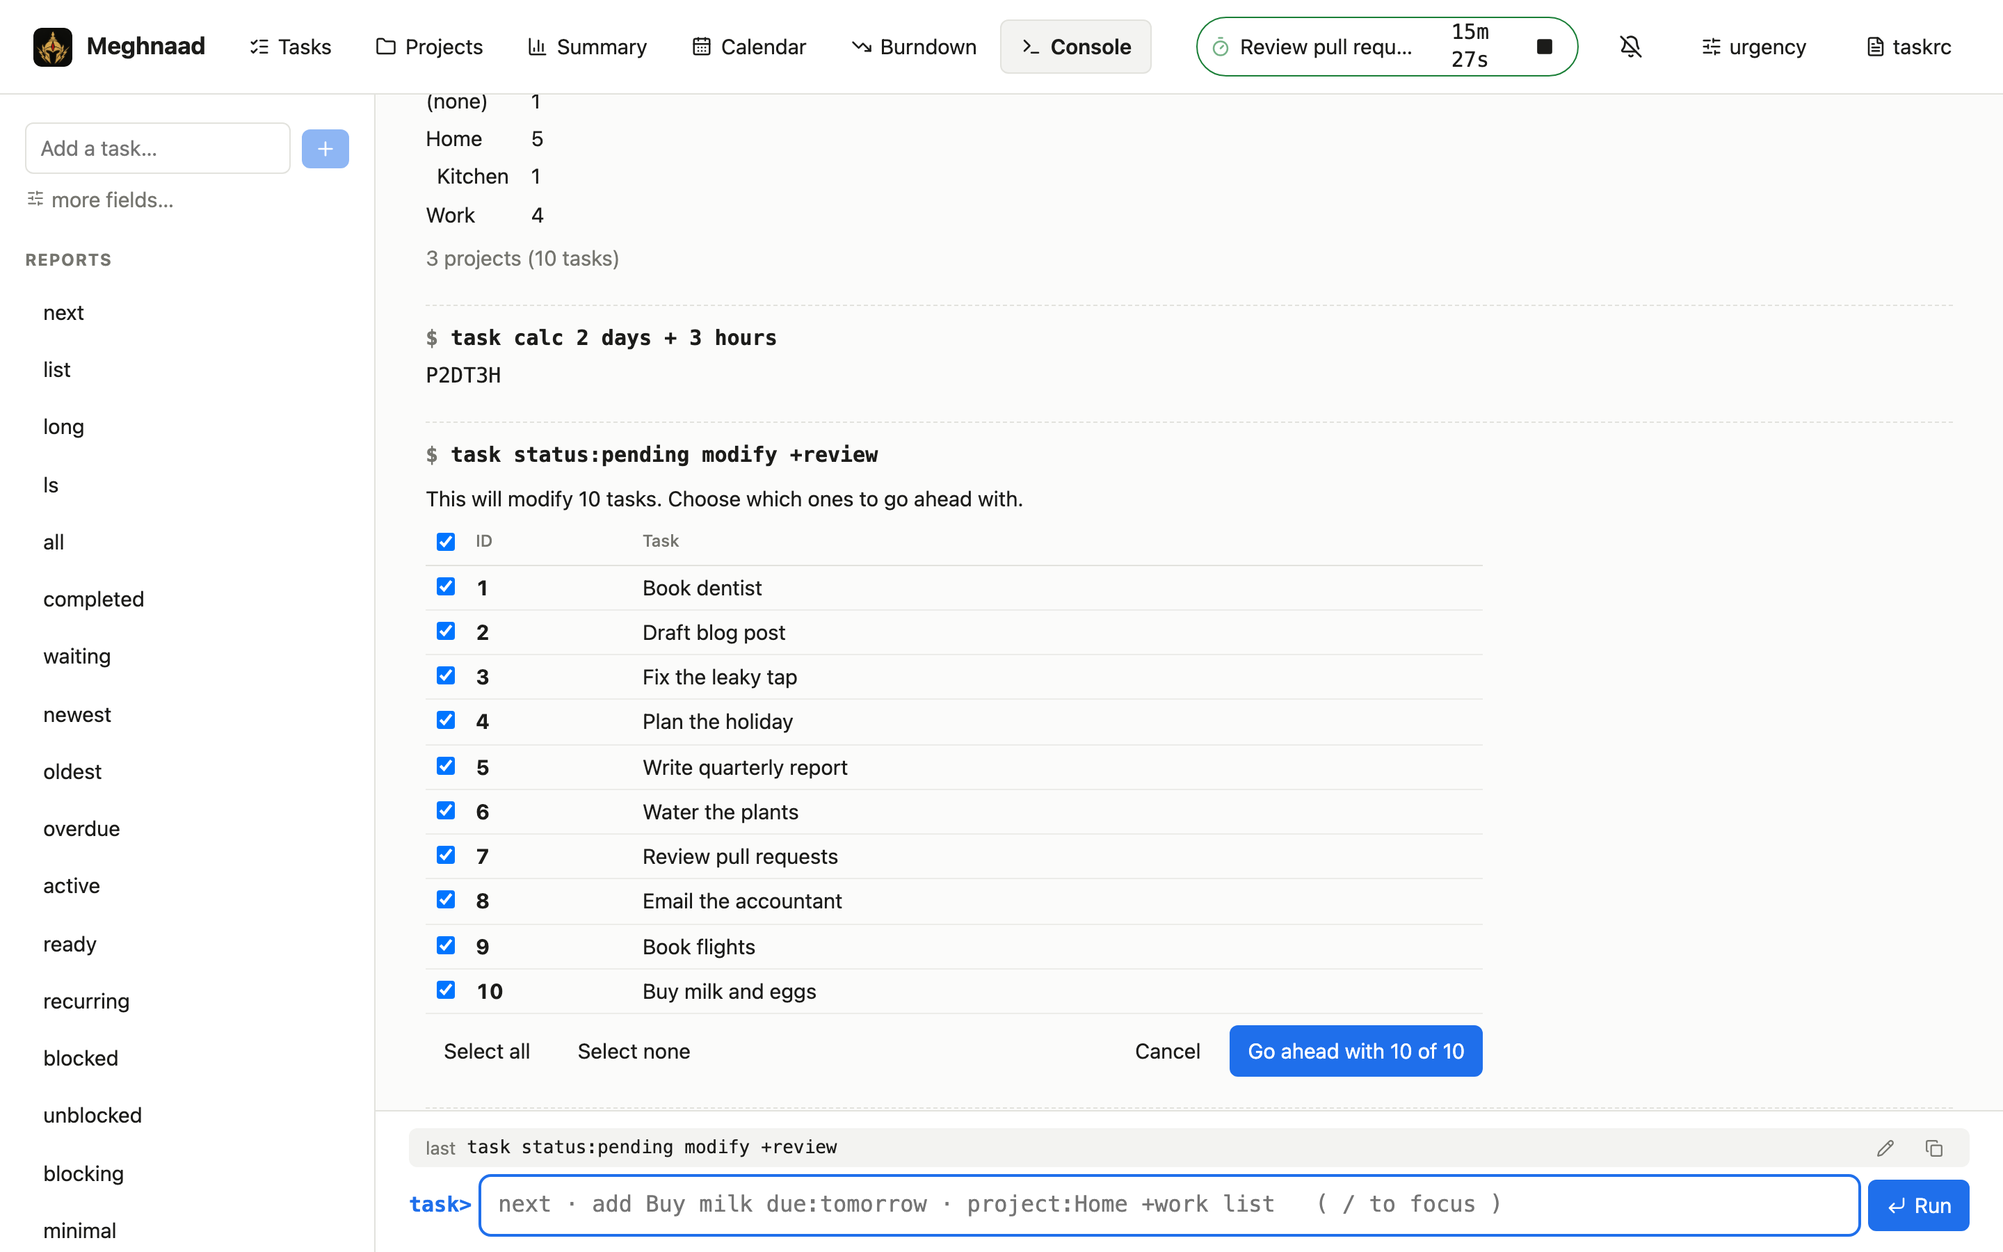
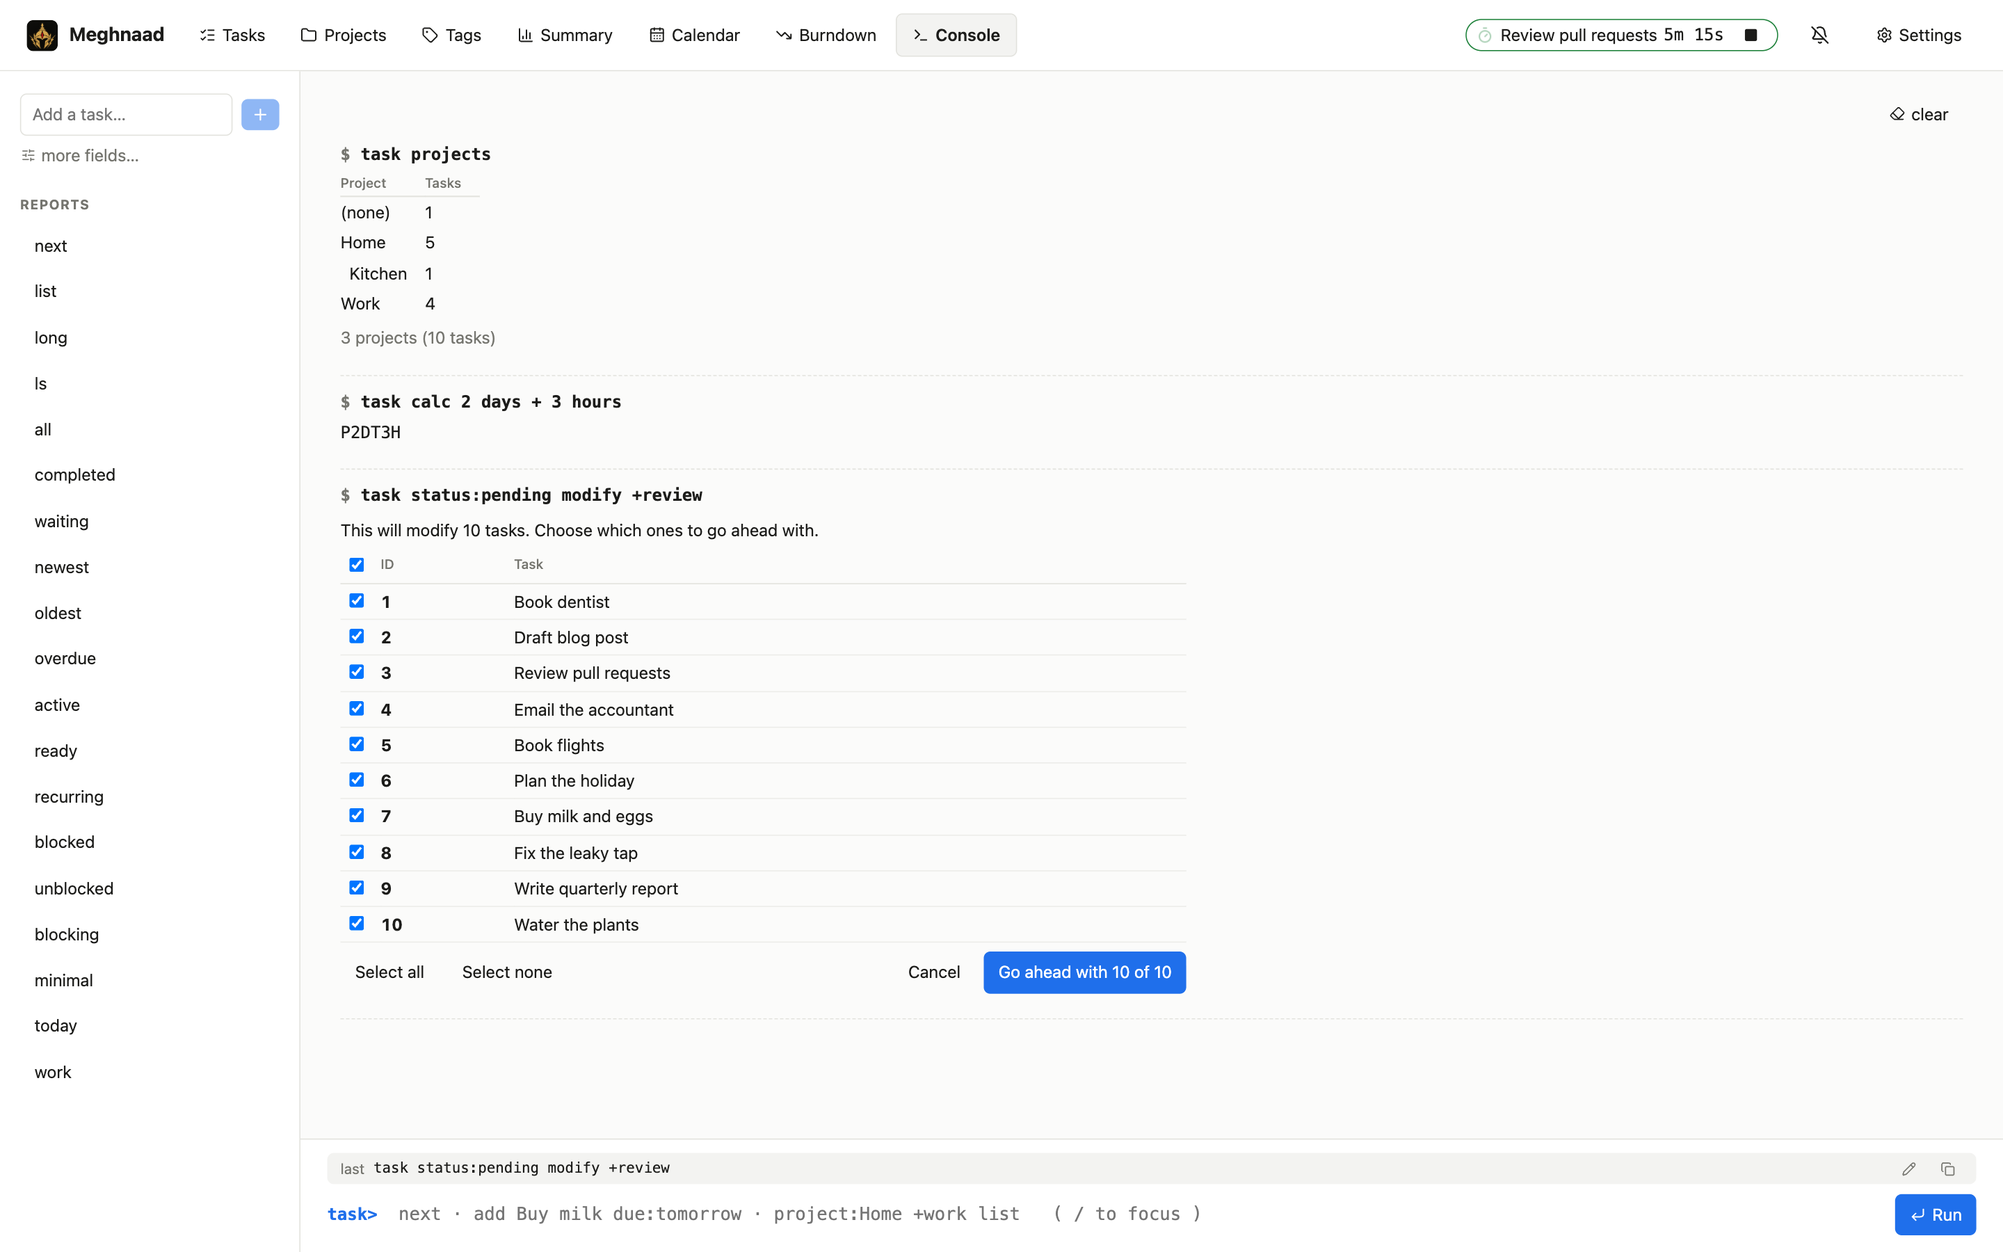
doc: screenshots of the Settings pages, the architecture diagram, and the settings docs
The screenshots are regenerated (the old ones still showed the urgency and
taskrc buttons, and the phone one showed the timer's broken time) and the
Settings tabs, the task-commands menu and the icon picker are new. The
diagram gains task commands and tasksh review, muted, beside their shell
counterparts on the desktop. The guide, the taskrc notes, the deploy
troubleshooting and the README now describe the Settings page, task
commands, hidden reports and where icons come from. The seed script adds
the outcome field, three demo commands and two older tasks.

diff --git a/docs/using.md b/docs/using.md
@@ -151,9 +151,12 @@ bar under another page, they switch you to it). `show` lists every setting, defa
 changed highlighted and their default beneath; `show weekstart` narrows it to names containing that text. `config
 weekstart monday` sets one (several words become one value, `config name ""` blanks it), and `config weekstart` with no
 value removes it, putting the default back. With `confirmation` on it asks first, as Taskwarrior does. The change is saved
-in your bucket just like an imported taskrc, and is the same list the **taskrc** page shows. Both follow the
+in your bucket just like an imported taskrc, and is the same list the **taskrc** tab shows. Both follow the
 [same rules as an import](#your-taskrc): sync and credential-like names are refused, never echoed or shown, and a name the
 app doesn't read, or a value it can't accept (`weekstart someday`), is refused with the reason instead of being kept.
+
+**Your own commands.** A word you defined under Settings, then Commands (`fail` for `done outcome:fail`) works at this
+prompt too, with or without `task` and after a filter: see [Commands](#commands).
 
 ## Questions Taskwarrior asks
 
@@ -177,6 +180,10 @@ command would actually change are listed. A single task is a plain yes/no. The d
 
 - **Reports.** Pick any report, including your own, and add filters by typing (Tab completes) or from the helpers.
   Filters show as removable chips. A report's own filter and default sort are shown above the table.
+  Reports whose names start with `_` (such as `_reviewed`, which the tasksh tab defines) are Taskwarrior's hidden helpers,
+  so the sidebar and the report box leave them out. When there are any, an eye button beside **Reports** in the sidebar
+  shows them all, and your choice is remembered. A hidden report you opened by name stays in the lists while you are on
+  it, and typing its name at the prompt always works.
 - **Sorting.** Click a column header (again to reverse, a third time to reset, Shift-click to add a tie-breaker). It is
   applied as `rc.report.<name>.sort:…`, so it matches what you would type.
 - **Grouping.** A `/` on a sort key (`project+/`) puts a gap in the table wherever that column's value changes, as in
@@ -254,6 +261,8 @@ stops carrying finished tasks forward.
 its own **Apply**, and applying one does not touch the others. A tab with edits that are not applied yet has a dot, and
 the edits stay while you look at another tab or another page. If the saved settings change from somewhere else (the
 Console's `config`, another tab), a tab with no edits of its own follows them.
+
+![The Settings page, on its taskrc tab: the saved settings as text to edit, with a colour theme picker and import from a file or a link](screenshots/settings-taskrc.png)
 
 ## Your taskrc
 
@@ -341,12 +350,20 @@ one in the bar over selected tasks runs it on all of them (a batch at a time, li
 not there while you have no commands. Names are one word that can't be taken for a filter (no spaces, no `+` `-` `/`, no
 `:` or `=`, not a number).
 
+![The Commands tab: fail, later and urgent, each with a name, what it stands for and an icon](screenshots/settings-commands.png)
+
+![The icon picker, searching for "cancel": the circled cross is among the results](screenshots/icon-picker.png)
+
+![The menu under the ellipsis on a task: fail, later and urgent, each with its icon and what it runs](screenshots/task-commands-menu.png)
+
 The tab shows the `settings.json` it will save. Other keys in the file are kept, and entries it can't use are listed and
 dropped when you apply. The file is at most 64 KB.
 
 ## tasksh
 
-The **tasksh** tab is about what tasksh's `review` works from: a `reviewed` attribute (a date UDA that records when
+![The tasksh tab: the reviewed attribute and the _reviewed report are not defined, the review filter and order, and the six lines Apply would write](screenshots/settings-tasksh.png)
+
+The **tasksh** tab prepares what tasksh's `review` works from. (The `review` command itself is not in the app yet.) It is a `reviewed` attribute (a date UDA that records when
 you last looked at a task) and a `_reviewed` report (one `uuid` column) that lists the tasks due for review. It says
 whether each is defined, defined differently (with what is there now, since applying changes it), or missing, and lists
 the exact `config` lines **Apply** would write, which are the ones tasksh writes the first time it runs. Nothing else
@@ -354,6 +371,8 @@ in the taskrc is touched. You can adjust the report's **filter** (by default nev
 still pending or waiting) and **order**; **Use tasksh's defaults** puts them back.
 
 ## Urgency
+
+![The Urgency tab: the inherit switch, and each coefficient next to its default](screenshots/settings-urgency.png)
 
 A task's urgency is the sum of Taskwarrior's `urgency.*` terms, with its built-in coefficients unless your taskrc
 changes them. Open **Settings**, then its **Urgency** tab, to see every coefficient next to its default, edit it, add your
@@ -520,6 +539,10 @@ can be tapped. You can install it to your home screen from the browser menu.
 - **`undo`** works on the last few commands made while this Worker instance lives; it is forgotten when it is recycled.
 - **Hooks are Rust, not scripts** (`on-add`, `on-modify`, …): a Worker can't run local programs, so they are functions in
   `my_hooks.rs` that you edit and redeploy. See [Hooks](#hooks).
+- **Task commands and `settings.json` are the app's own.** They are not in your taskrc, so a desktop `task` knows nothing
+  of them; the taskrc's `alias.*` still works there. See [Commands](#commands).
+- **tasksh's `review`** is not in the app yet. The tasksh tab only sets up the `reviewed` attribute and the `_reviewed`
+  report, with the lines tasksh itself adds to a desktop taskrc the first time it runs, so you can copy them there.
 - **`edit` and `import-v2`** are not in the app (the detail view edits a task; Taskwarrior 2's data files can't be read
   in a browser). `purge` is, with one difference: it removes a task from your current tasks, but the earlier versions in
   your bucket still hold what it used to say until they are cleaned up, which the app does as the CLI does, after

diff --git a/README.md b/README.md
@@ -63,6 +63,22 @@ It is **console-first** (type `task` commands) with tables, forms and charts bes
     <td align="center"><sub>The console. Taskwarrior's yes/no/all/quit becomes a table of ticks</sub></td>
     <td align="center"><sub>On a phone</sub></td>
   </tr>
+  <tr>
+    <td><img src="docs/screenshots/settings-commands.png" alt="Settings, Commands: words that stand for a command line, each with a Lucide icon" /></td>
+    <td><img src="docs/screenshots/task-commands-menu.png" alt="The menu under the ellipsis on a task lists those commands" /></td>
+  </tr>
+  <tr>
+    <td align="center"><sub>Settings: your own commands, with any Lucide icon</sub></td>
+    <td align="center"><sub>They are on the ⋯ menu of a task, and of the selected tasks</sub></td>
+  </tr>
+  <tr>
+    <td><img src="docs/screenshots/settings-tasksh.png" alt="Settings, tasksh: what review needs in the taskrc, and the lines that would be written" /></td>
+    <td><img src="docs/screenshots/settings-urgency.png" alt="Settings, Urgency: every coefficient next to its default" /></td>
+  </tr>
+  <tr>
+    <td align="center"><sub>Settings: the tasksh setup, with the exact lines it writes</sub></td>
+    <td align="center"><sub>Settings: urgency coefficients next to their defaults</sub></td>
+  </tr>
 </table>
 
 ## Documentation
@@ -80,21 +96,29 @@ It is **console-first** (type `task` commands) with tables, forms and charts bes
 flowchart TB
   subgraph desktop["Desktop: Taskwarrior 3"]
     direction TB
+    sh["shell aliases<br/>alias fail='task done outcome:fail'"]
+    tsh["tasksh<br/>review"]
     cli["task CLI (C++)"]
     tcd["TaskChampion (Rust)"]
     db[("SQLite replica<br/>~/.task")]
     rc["~/.taskrc"]
+    sh -.-> cli
+    tsh -.-> cli
     cli --> tcd --> db
     rc -.-> cli
   end
 
   subgraph web["Cloudflare: Meghnaad"]
     direction TB
+    cmds["task commands<br/>(settings.json)"]
+    rev["tasksh review<br/>(planned)"]
     spa["Svelte app<br/>(draws results)"]
     access{{"Cloudflare Access<br/>token check"}}
     wk["Worker (Rust → WASM)<br/>command engine in tc-core<br/>+ your hooks"]
     tcw["TaskChampion (Rust)"]
     mem[("In-memory replica<br/>per Worker instance")]
+    cmds -.-> spa
+    rev -.-> spa
     spa -- "POST /api/cli" --> access --> wk --> tcw --> mem
   end
 
@@ -102,15 +126,25 @@ flowchart TB
 
   tcd <-- "task sync (when you run it)<br/>S3 API, key on your machine" --> bucket
   tcw <-- "before and after every command<br/>R2 binding, key in a Worker secret" --> bucket
-  wk -. "imported taskrc settings" .-> bucket
+  wk -. "taskrc settings, settings.json" .-> bucket
+
+  sh <-. "counterpart" .-> cmds
+  tsh <-. "counterpart" .-> rev
+
+  classDef ext fill:transparent,stroke:#999,color:#999,stroke-dasharray:4 3
+  class sh,tsh,cmds,rev ext
 ```
 
+- **Dashed grey boxes** are not Taskwarrior: your own words for command lines (shell aliases on the desktop, task commands
+  here) and tasksh's `review` (tasksh there; planned here, with its setup already in Settings). They only ever send ordinary
+  commands.
 - **The bucket** holds TaskChampion's standard cloud layout, encrypted client-side. The Worker speaks the same protocol,
   so it and the CLI are interchangeable replicas.
 - **The Worker** keeps an in-memory replica and syncs before and after every command (an idle sync is one read). After a
   quiet spell it rebuilds from the newest snapshot.
 - **One endpoint**, `POST /api/cli`, takes what you type or click, so Taskwarrior's rules live in one place, `tc-core`.
-  The browser only draws. (`POST /api/import` carries a file's text.)
+  The browser only draws. (`POST /api/import` carries a file's text; settings are read and saved on `/api/config` and
+  `/api/settings`.)
 - **Imported taskrc settings** are stored in the bucket, so they survive restarts and follow you between devices.
   The app's own `settings.json` (task commands, so far) is stored beside them; the Worker keeps its text as it is and
   only the browser reads it.
@@ -158,7 +192,8 @@ then the app shows a setup page and nothing is reachable. Pointing your `task` C
 
 ## Using it
 
-The header has **Tasks**, **Projects**, **Tags**, **Summary**, **Calendar**, **Burndown** and **Console**. Anything you can click
+The header has **Tasks**, **Projects**, **Tags**, **Summary**, **Calendar**, **Burndown** and **Console**, and **Settings**
+(the taskrc, tasksh, your own commands and urgency). Anything you can click
 you can type:
 
 ```
@@ -253,6 +288,8 @@ retries read-only requests once.
 
 ## Known limitations
 
+- **Icons beyond the bundled ones** are fetched from a CDN when first shown (see Security). Offline, the ones your
+  commands use are remembered by the browser and the rest show a terminal icon.
 - **Single user:** one set of settings and one shared replica per Worker instance.
 - **Old versions** (over 180 days old and covered by a snapshot) are cleaned up as the CLI does, after about one push in
   twenty. A device offline for longer may need a fresh `task sync` set-up.

diff --git a/docs/architecture.md b/docs/architecture.md
@@ -20,21 +20,29 @@ bucket, and the clients agree on its layout. Meghnaad is one more client of that
 flowchart TB
   subgraph desktop["Desktop: Taskwarrior 3"]
     direction TB
+    sh["shell aliases<br/>alias fail='task done outcome:fail'"]
+    tsh["tasksh<br/>review"]
     cli["task CLI (C++)"]
     tcd["TaskChampion (Rust)"]
     db[("SQLite replica<br/>~/.task")]
     rc["~/.taskrc"]
+    sh -.-> cli
+    tsh -.-> cli
     cli --> tcd --> db
     rc -.-> cli
   end
 
   subgraph web["Cloudflare: Meghnaad"]
     direction TB
+    cmds["task commands<br/>(settings.json)"]
+    rev["tasksh review<br/>(planned)"]
     spa["Svelte app<br/>(draws results)"]
     access{{"Cloudflare Access<br/>token check"}}
     wk["Worker (Rust → WASM)<br/>command engine in tc-core<br/>+ your hooks"]
     tcw["TaskChampion (Rust)"]
     mem[("In-memory replica<br/>per Worker instance")]
+    cmds -.-> spa
+    rev -.-> spa
     spa -- "POST /api/cli" --> access --> wk --> tcw --> mem
   end
 
@@ -42,8 +50,19 @@ flowchart TB
 
   tcd <-- "task sync (when you run it)<br/>S3 API, key on your machine" --> bucket
   tcw <-- "before and after every command<br/>R2 binding, key in a Worker secret" --> bucket
-  wk -. "imported taskrc settings" .-> bucket
+  wk -. "taskrc settings, settings.json" .-> bucket
+
+  sh <-. "counterpart" .-> cmds
+  tsh <-. "counterpart" .-> rev
+
+  classDef ext fill:transparent,stroke:#999,color:#999,stroke-dasharray:4 3
+  class sh,tsh,cmds,rev ext
 ```
+
+The dashed grey boxes are not Taskwarrior itself. They are what people add around it: shell aliases and `tasksh` on the
+desktop, and their counterparts here, **task commands** (`settings.json`, expanded in the browser) and **tasksh's
+`review`** (planned; the Settings page already sets up the `reviewed` attribute and `_reviewed` report it needs). Both
+only ever send ordinary commands to the one endpoint, so the engine knows nothing about them.
 
 ## The request path
 
@@ -51,7 +70,9 @@ Every action goes through one endpoint, `POST /api/cli`, with `{ "line": "…" }
 `{ "args": […] }` (what a button sends). One endpoint means one place where Taskwarrior semantics live. The one
 exception is `POST /api/import`, which takes the *text of a file* (a command line can't carry one): the browser reads the
 file and sends it as it is, and `tc-core`'s `import` module parses and checks it, so the rules are still only in Rust.
-`?apply=1` writes it; without that it only reports what it would do.
+`?apply=1` writes it; without that it only reports what it would do. The settings are not commands, so they have routes
+of their own: `/api/config/*` for the taskrc and urgency, and `GET`/`PUT /api/settings` for `settings.json` (`config` and
+`show` still edit the taskrc through the one endpoint).
 
 1. **Static files** (the app shell) are served by Cloudflare without running the Worker. Only `/api/*` runs it.
 2. **`auth.rs`** checks the Cloudflare Access token on every `/api/*` request: RS256 signature against your team's
@@ -161,7 +182,7 @@ A Svelte 5 single-page app (`web/`), built with Vite and served as static assets
 
 - `store.svelte.ts` is the one store: the current page, the config, the console's entries, the live report, the
   answers to questions in flight, and the toast.
-- **Pages** (`TasksView`, `ProjectsView`, `TagsView`, `SummaryPage`, `CalendarPage`, `BurndownPage`, `ConsoleView`) are thin. Each
+- **Pages** (`TasksView`, `ProjectsView`, `TagsView`, `SummaryPage`, `CalendarPage`, `BurndownPage`, `ConsoleView`, `SettingsPage`) are thin. Each
   asks the engine for a result and hands it to a shared component, so the console and the pages draw the same thing.
 - **Settings** is one page, `SettingsPage`, with a tab per panel: `TaskrcPanel` (the taskrc text, themes, import),
   `TaskshPanel`, `CommandsPanel` and `UrgencyPanel`. Each has its own Apply and tells the page when it has edits, and all three stay

diff --git a/docs/deploy.md b/docs/deploy.md
@@ -178,6 +178,7 @@ Released versions of Taskwarrior have no config key for a custom S3 endpoint, bu
 | **Cloudflare error 1102** ("Worker exceeded resource limits"), usually on the first request after a while | The CPU limit. On Workers Free it is 10 ms, less than a cold start needs: use Workers Paid. The app retries read-only requests once on its own, and the retry meets a warm instance. In the dashboard, "Exceeded CPU Time Limits" vs "Exceeded Memory" says which limit; `npx wrangler tail` shows it live |
 | A stack trace in `wrangler tail` shows only `wasm-function[1234]`, no names | The build leaves the debug function names out to save about 70 KB of the upload. Build and deploy once with `KEEP_WASM_NAMES=1` (`KEEP_WASM_NAMES=1 npm run deploy`) when you need to read one |
 | "task storage error" (502) | Wrong `TC_ENCRYPTION_SECRET` or the wrong bucket. The cached state resets on the next request |
+| Task command icons show as a terminal, and the icon picker says the list could not be fetched | The browser can't reach `cdn.jsdelivr.net`: it is offline or blocked, or a proxy in front of the app sets a Content-Security-Policy without it (`web/public/_headers` allows it with `connect-src 'self' https://cdn.jsdelivr.net`). Typing an icon's name in the picker still works |
 | `wrangler dev` says the assets directory is missing | Run `npm --prefix web run build` once |
 | `wrangler dev` exits with "register a workers.dev subdomain" | `wrangler.jsonc` has an extra `"remote": true` R2 binding (added when you ran `wrangler r2 bucket create`). Delete it, keeping only `TASKS` |
 | `task sync` fails with `PermanentRedirect` | `AWS_ENDPOINT_URL` isn't set in that environment, so it's talking to AWS |

diff --git a/docs/taskrc-support.md b/docs/taskrc-support.md
@@ -5,7 +5,8 @@ Which of Taskwarrior's `taskrc` options Meghnaad handles, and which it doesn't.
 The list of options comes from the `taskrc(5)` man page of Taskwarrior **3.5.0**; the status of each one comes from
 reading this repository's code. [Using Meghnaad](using.md#your-taskrc) explains how the taskrc is imported. In short: you paste or choose your
 `~/.taskrc`, only an allowlist of settings is kept, and the result is saved in your bucket (`web/config.json`), not in
-your desktop file.
+your desktop file. The app's own settings (task commands, so far) are not taskrc options: they are in a `settings.json`
+of their own, described in [Using Meghnaad](using.md#commands).
 
 **Scope.** This tracks Taskwarrior **3.5.0 and newer**, and only that. Settings that were removed or deprecated before
 3.5.0 are left out of this list and are not supported, even if an older taskrc still contains them.
@@ -195,7 +196,7 @@ Where the app differs from the desktop: with no `color.*` lines the rows follow 
 
 ## Urgency
 
-All of these can also be edited in the app (**urgency** in the header). See [Urgency](using.md#urgency) for the
+All of these can also be edited in the app (**Settings**, then **Urgency**, in the header). See [Urgency](using.md#urgency) for the
 inheritance rules, which follow Taskwarrior's source.
 
 | Option | Status | Remark |
